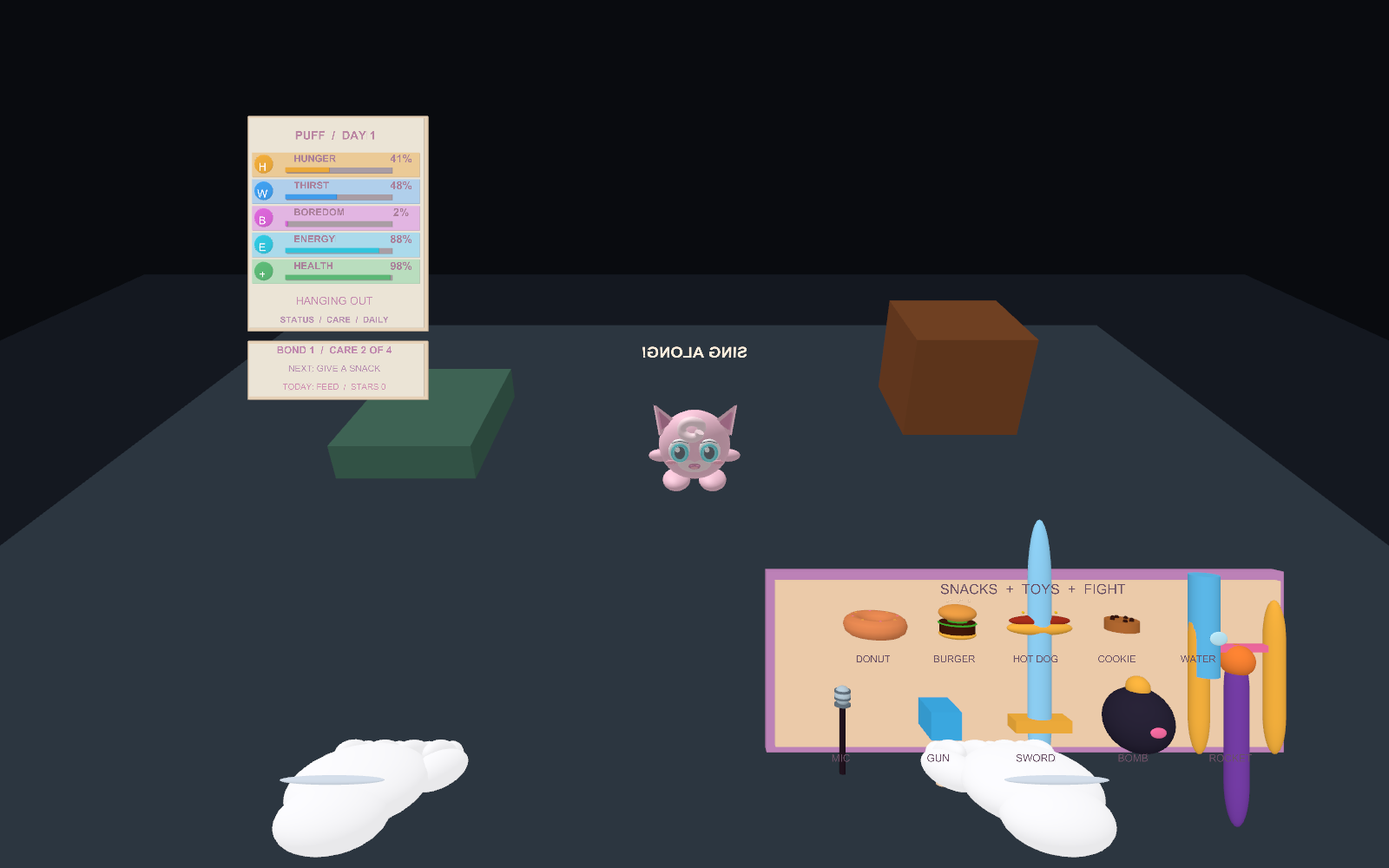
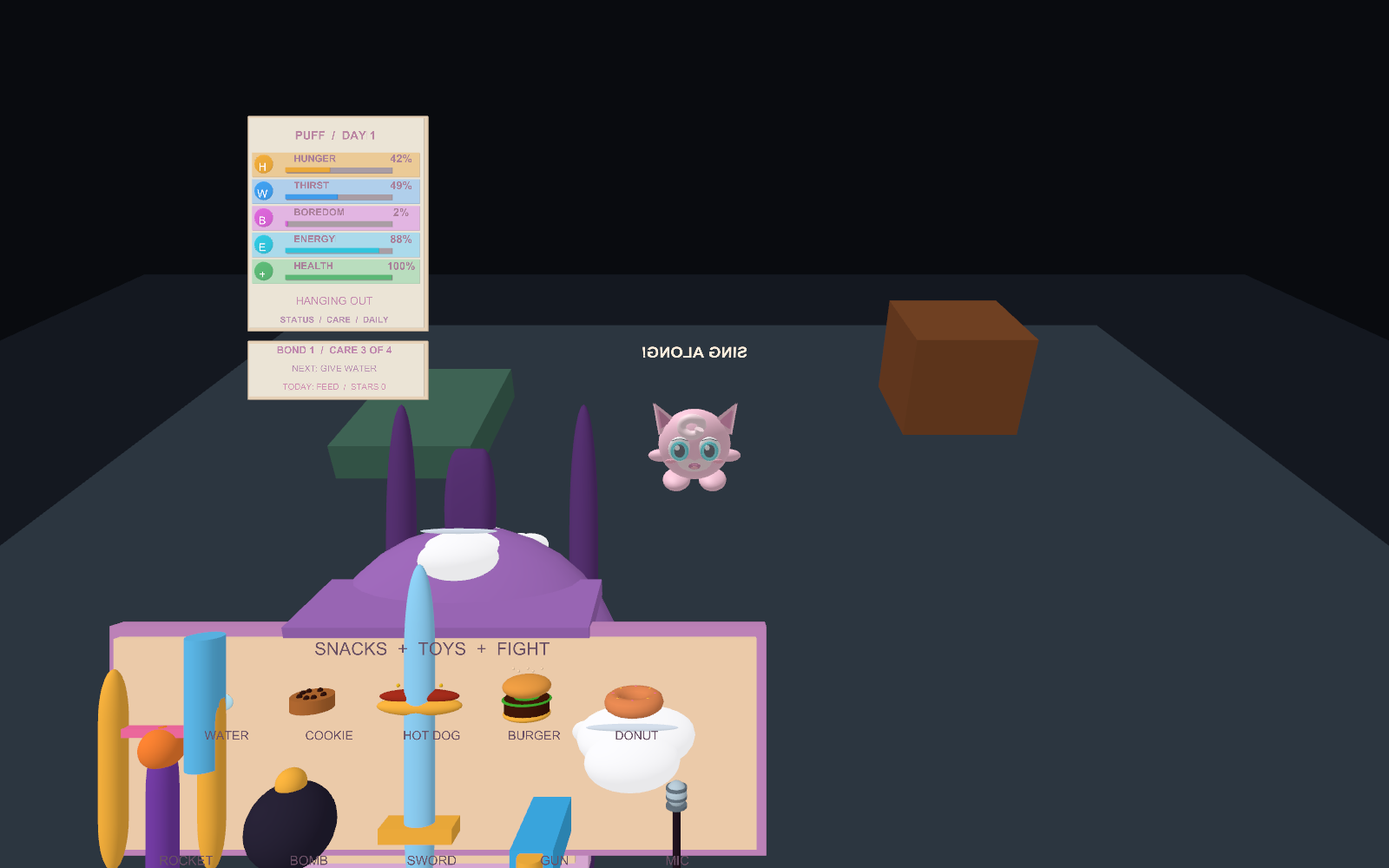
Make the backpack grabbable and placeable in mixed reality

Changed region(s): [[0.0625, 0.465, 0.9375, 1.0], [0.4688, 0.465, 0.5312, 0.527], [0.2188, 0.403, 0.25, 0.434]]

diff --git a/Assets/TabletopMayhem/Runtime/PetGame.cs b/Assets/TabletopMayhem/Runtime/PetGame.cs
@@ -32,7 +32,7 @@ namespace TabletopMayhem
         PetCareProgress care;
         PetRoster roster;
         RoomWorld room;
-        Transform rig,cameraOffset,rightHand,leftHand,anchor,petRoot,visualPivot,petModel,microphone,packTray,backpack,spawnMarker,spawnBeacon,bondFlower,contactShadow;
+        Transform rig,cameraOffset,rightHand,leftHand,anchor,petRoot,visualPivot,petModel,microphone,packTray,backpack,packFlap,spawnMarker,spawnBeacon,bondFlower,contactShadow;
         Camera view;
         PetMotion motion;
         PetHud hud;
@@ -45,6 +45,9 @@ namespace TabletopMayhem
         AudioSource songSource,squeakSource,moodSource,musicSource;
         AudioClip squeak,moodClip,musicClip,battleMusicClip,stepClip,purrClip;
         bool onQuest,placed,previousTrigger,previousGrip,previousLeftGrip,previousLeftTrigger,previousLeftY,previousReset,previousHelp,headTracked,focusPaused,packOpen;
+        bool packStowed=true,packReleasedThisFrame;
+        int packHeldBy; // 0 free, 1 left hand, 2 right hand
+        Vector3 packFollowVelocity;
         bool heldPet,petFlying,haveHandPositions,restingAtThrow;
         bool titleDismissed,titleWasPressed,awaitStartRelease;
         float titleTime;
@@ -160,7 +163,7 @@ namespace TabletopMayhem
             for(int i=0;i<foods.Length;i++)
             {
                 var food=PetArt.Food(packTray,(FoodKind)i);foods[i]=food;
-                foodHomes[i]=new Vector3((i-2)*.096f,.055f,-.025f);
+                foodHomes[i]=new Vector3((i-2)*.096f,.055f,.035f);
                 food.localPosition=foodHomes[i];
             }
             for(int i=0;i<props.Length;i++)
@@ -218,18 +221,36 @@ namespace TabletopMayhem
         {
             backpack=new GameObject("Backpack behind head").transform;backpack.SetParent(view.transform,false);
             backpack.localPosition=new Vector3(0,-.17f,-.30f);
-            PetArt.Shape(backpack,PrimitiveType.Cube,Vector3.zero,new Vector3(.23f,.24f,.10f),new Color(.79f,.48f,.76f),"Pastel backpack");
-            PetArt.Shape(backpack,PrimitiveType.Cube,new Vector3(0,.02f,-.056f),new Vector3(.18f,.11f,.016f),PetArt.Cream,"Pack flap");
-            packTray=new GameObject("Backpack inventory tray").transform;packTray.SetParent(view.transform,false);
-            packTray.localPosition=new Vector3(.29f,-.20f,.65f);
+            var lavender=new Color(.63f,.42f,.74f);var rim=new Color(.91f,.71f,.89f);var deep=new Color(.35f,.20f,.46f);
+            PetArt.Shape(backpack,PrimitiveType.Sphere,Vector3.zero,new Vector3(.25f,.26f,.12f),lavender,"Rounded fabric pack");
+            PetArt.Shape(backpack,PrimitiveType.Cube,new Vector3(0,-.018f,-.060f),new Vector3(.205f,.175f,.014f),rim,"Front pocket panel");
+            PetArt.Shape(backpack,PrimitiveType.Cube,new Vector3(0,-.018f,-.070f),new Vector3(.188f,.158f,.003f),PetArt.Cream,"Pocket inset");
+            for(int s=-1;s<=1;s+=2)
+            {
+                PetArt.Shape(backpack,PrimitiveType.Capsule,new Vector3(s*.080f,.008f,.065f),new Vector3(.025f,.22f,.026f),deep,"Soft shoulder strap");
+                PetArt.Shape(backpack,PrimitiveType.Sphere,new Vector3(s*.099f,-.012f,-.071f),new Vector3(.009f,.009f,.004f),PetArt.Gold,"Stitched pocket rivet");
+            }
+            var handle=PetArt.Shape(backpack,PrimitiveType.Capsule,new Vector3(0,.143f,0),new Vector3(.095f,.020f,.024f),deep,"Backpack grab handle");
+            handle.transform.localRotation=Quaternion.Euler(0,0,90);
+            packFlap=new GameObject("Backpack hinged flap").transform;packFlap.SetParent(backpack,false);packFlap.localPosition=new Vector3(0,.066f,-.070f);
+            PetArt.Shape(packFlap,PrimitiveType.Cube,new Vector3(0,-.027f,0),new Vector3(.21f,.074f,.013f),lavender,"Rounded flap");
+            PetArt.Shape(packFlap,PrimitiveType.Sphere,new Vector3(0,-.060f,-.010f),new Vector3(.025f,.017f,.009f),PetArt.Gold,"Heart clasp");
+            packTray=new GameObject("Backpack inventory tray").transform;packTray.SetParent(backpack,false);
+            packTray.localPosition=new Vector3(0,-.010f,-.085f);
+            packTray.localRotation=Quaternion.Euler(0,180,0);
             packTray.localScale=Vector3.one*.72f;
-            PetArt.Shape(packTray,PrimitiveType.Cube,new Vector3(0,0,.022f),new Vector3(.63f,.22f,.018f),new Color(.80f,.55f,.78f),"Inventory backing");
-            PetArt.Shape(packTray,PrimitiveType.Cube,new Vector3(0,0,.009f),new Vector3(.61f,.20f,.008f),PetArt.Cream,"Inventory lining");
-            PetArt.Text(packTray,"SNACKS  +  TOYS  +  FIGHT",new Vector3(0,.093f,-.008f),.0026f,PetArt.Ink);
+            PetArt.Shape(packTray,PrimitiveType.Cube,new Vector3(0,0,-.022f),new Vector3(.63f,.22f,.018f),new Color(.80f,.55f,.78f),"Inventory backing");
+            PetArt.Shape(packTray,PrimitiveType.Cube,new Vector3(0,0,-.009f),new Vector3(.61f,.20f,.008f),PetArt.Cream,"Inventory lining");
+            PackLabel("SNACKS  +  TOYS  +  FIGHT",new Vector3(0,.093f,.003f),.0026f);
             string[] labels={"DONUT","BURGER","HOT DOG","COOKIE","WATER","MIC","GUN","SWORD","BOMB","ROCKET"};
-            for(int i=0;i<foods.Length;i++)PetArt.Text(packTray,labels[i],new Vector3((i-2)*.096f,.012f,-.015f),.0018f,PetArt.Ink);
-            for(int i=0;i<props.Length;i++)PetArt.Text(packTray,labels[i+5],new Vector3((i-2)*.115f,-.105f,-.015f),.0019f,PetArt.Ink);
+            for(int i=0;i<foods.Length;i++)PackLabel(labels[i],new Vector3((i-2)*.096f,.012f,.004f),.0018f);
+            for(int i=0;i<props.Length;i++)PackLabel(labels[i+5],new Vector3((i-2)*.115f,-.105f,.004f),.0019f);
             packTray.gameObject.SetActive(false);
+        }
+        void PackLabel(string label,Vector3 position,float size)
+        {
+            var text=PetArt.Text(packTray,label,position,size,PetArt.Ink);
+            text.transform.localRotation=Quaternion.Euler(0,180,0);
         }
         void Update()
         {
@@ -413,6 +434,7 @@ namespace TabletopMayhem
                 previousTrigger=trigger;previousHelp=helpButton;previousReset=reset;previousLeftGrip=leftGrip;previousLeftY=leftY;previousGrip=grip;previousLeftTrigger=leftTrigger;
                 return;
             }
+            UpdatePackPose(frameDt,grip,leftGrip);
             bool fightToggle=Button(left,CommonUsages.primaryButton);
             if(placed&&fightToggle&&!previousFightToggle)
             {
@@ -472,8 +494,8 @@ namespace TabletopMayhem
                 {previousTrigger=trigger;previousGrip=grip;previousLeftGrip=leftGrip;previousLeftTrigger=leftTrigger;previousLeftY=leftY;previousReset=reset;previousHelp=helpButton;return;}
                 if(grip&&!previousGrip)
                 {
-                    if(BehindHead(rightHand.position))TogglePack();
-                    else if(heldFood<0&&heldProp<0&&packOpen){TryPickFood(ray);if(heldFood<0)TryPickProp(ray);}
+                    if(!TryGrabPack(rightHand,2)&&heldFood<0&&heldProp<0&&packOpen)
+                    {TryPickFood(ray);if(heldFood<0)TryPickProp(ray);}
                 }
                 if(heldFood>=0)
                 {
@@ -499,14 +521,14 @@ namespace TabletopMayhem
                     if(touchDwell>.065f){touchDwell=0;PetPuff();}
                 }
                 else touchDwell=0;
-                if(leftGrip&&!previousLeftGrip)TryPickPet();
+                if(leftGrip&&!previousLeftGrip&&!TryGrabPack(leftHand,1))TryPickPet();
                 if(heldPet)
                 {
                     petRoot.position=leftHand.position+leftHand.forward*.10f;
                     if(!leftGrip)ThrowPet();
                 }
                 if(leftTrigger&&!previousLeftTrigger&&!heldPet&&punchCooldown<=0&&Vector3.Distance(leftHand.position,petRoot.position+Vector3.up*.10f)<.22f)PunchPet();
-                if(leftGrip&&!previousLeftGrip&&pet.Action==PetAction.Sleep)pet.Wake();
+                if(leftGrip&&!previousLeftGrip&&packHeldBy!=1&&pet.Action==PetAction.Sleep)pet.Wake();
             }
             previousTrigger=trigger;previousGrip=grip;previousLeftGrip=leftGrip;previousLeftTrigger=leftTrigger;previousLeftY=leftY;previousReset=reset;previousHelp=helpButton;
         }
@@ -517,17 +539,17 @@ namespace TabletopMayhem
         {
             Vector2 stick;if(!left.TryGetFeatureValue(CommonUsages.primary2DAxis,out stick))stick=Vector2.zero;
             bool guarding=trigger&&heldProp<0&&heldFood<0;
-            fight.Controls(stick,guarding,leftGrip);
+            fight.Controls(stick,guarding,leftGrip&&packHeldBy!=1);
             if(punch&&!previousFightPunch)fight.Punch();
             if(kick&&!previousFightKick)fight.Kick();
             if(leftTrigger&&!previousLeftTrigger){fight.Jump();Haptic(.18f,.06f);}
-            if(leftGrip&&!previousLeftGrip){if(fight.Grab())Haptic(.4f,.1f);}
-            if(!leftGrip&&previousLeftGrip){fight.Throw(leftVelocity.sqrMagnitude>.12f?leftVelocity:leftHand.forward*1.4f);Haptic(.28f,.08f);}
+            if(leftGrip&&!previousLeftGrip&&!TryGrabPack(leftHand,1)){if(fight.Grab())Haptic(.4f,.1f);}
+            if(!leftGrip&&previousLeftGrip&&!packReleasedThisFrame){fight.Throw(leftVelocity.sqrMagnitude>.12f?leftVelocity:leftHand.forward*1.4f);Haptic(.28f,.08f);}
             Ray ray=new Ray(rightHand.position,rightHand.forward*aimSign);
             if(grip&&!previousGrip)
             {
-                if(BehindHead(rightHand.position))TogglePack();
-                else if(heldProp<0&&heldFood<0&&packOpen){TryPickFood(ray);if(heldFood<0)TryPickProp(ray);}
+                if(!TryGrabPack(rightHand,2)&&heldProp<0&&heldFood<0&&packOpen)
+                {TryPickFood(ray);if(heldFood<0)TryPickProp(ray);}
             }
             if(heldFood>=0)
             {
@@ -663,9 +685,61 @@ namespace TabletopMayhem
         }
         bool BehindHead(Vector3 hand)
         {var p=view.transform.InverseTransformPoint(hand);return Mathf.Abs(p.x)<.37f&&p.y>-.55f&&p.y<.22f&&p.z<-.09f&&p.z>-.65f;}
+        bool TryGrabPack(Transform hand,int handId)
+        {
+            if(!placed||packHeldBy!=0||heldFood>=0||heldProp>=0||heldPet)return false;
+            bool fromBack=BehindHead(hand.position);
+            Vector3 handle=backpack.TransformPoint(new Vector3(0,.14f,-.015f));
+            bool atHandle=!packStowed&&Vector3.Distance(hand.position,handle)<.17f;
+            if(!fromBack&&!atHandle)return false;
+            backpack.SetParent(null,true);packStowed=false;packHeldBy=handId;packFollowVelocity=Vector3.zero;
+            if(fromBack)backpack.position=hand.position;
+            HapticHand(handId,.24f,.09f);Debug.Log("PET_PACK_GRABBED_"+(handId==1?"LEFT":"RIGHT"));
+            return true;
+        }
+        void UpdatePackPose(float dt,bool rightGrip,bool leftGrip)
+        {
+            packReleasedThisFrame=false;
+            if(packHeldBy==0)return;
+            bool held=packHeldBy==1?leftGrip:rightGrip;
+            if(!held){ReleasePack();return;}
+            Transform hand=packHeldBy==1?leftHand:rightHand;
+            Vector3 goal=hand.position+hand.forward*.055f-Vector3.up*.12f;
+            backpack.position=Vector3.SmoothDamp(backpack.position,goal,ref packFollowVelocity,.045f,4,dt);
+            backpack.rotation=Quaternion.Slerp(backpack.rotation,view.transform.rotation,1-Mathf.Exp(-dt*15));
+            Vector3 eye=view.transform.InverseTransformPoint(backpack.position);
+            bool inFront=eye.z>.24f&&eye.z<1.7f&&Mathf.Abs(eye.x)<eye.z*.95f;
+            if(inFront!=packOpen)
+            {
+                packOpen=inFront;packTray.gameObject.SetActive(packOpen);
+                Debug.Log(packOpen?"PET_PACK_OPEN":"PET_PACK_CLOSED");
+            }
+            packFlap.localRotation=Quaternion.Slerp(packFlap.localRotation,Quaternion.Euler(packOpen?-105:0,0,0),1-Mathf.Exp(-dt*12));
+        }
+        void ReleasePack()
+        {
+            packReleasedThisFrame=true;packHeldBy=0;packFollowVelocity=Vector3.zero;
+            Vector3 eye=view.transform.InverseTransformPoint(backpack.position);
+            if(eye.z<.20f){ClosePack();return;}
+            packOpen=true;packTray.gameObject.SetActive(true);packFlap.localRotation=Quaternion.Euler(-105,0,0);
+            Debug.Log("PET_PACK_PLACED");
+        }
         void TogglePack()
-        {if(heldFood>=0||heldProp>=0)return;packOpen=!packOpen;packTray.gameObject.SetActive(packOpen);Debug.Log(packOpen?"PET_PACK_OPEN":"PET_PACK_CLOSED");}
-        void ClosePack(){packOpen=false;packTray.gameObject.SetActive(false);}
+        {
+            if(heldFood>=0||heldProp>=0)return;
+            if(!packStowed){ClosePack();return;}
+            backpack.SetParent(null,true);backpack.position=view.transform.TransformPoint(new Vector3(0,-.12f,.55f));
+            backpack.rotation=view.transform.rotation;packStowed=false;packHeldBy=0;packOpen=true;
+            packTray.gameObject.SetActive(true);packFlap.localRotation=Quaternion.Euler(-105,0,0);
+            Debug.Log("PET_PACK_OPEN");
+        }
+        void ClosePack()
+        {
+            packHeldBy=0;packStowed=true;packOpen=false;packFollowVelocity=Vector3.zero;
+            backpack.SetParent(view.transform,false);backpack.localPosition=new Vector3(0,-.17f,-.30f);
+            backpack.localRotation=Quaternion.identity;packFlap.localRotation=Quaternion.identity;
+            packTray.gameObject.SetActive(false);Debug.Log("PET_PACK_STOWED");
+        }
         bool AimedAtPet(Ray ray)
         {
             Vector3 belly=petRoot.TransformPoint(new Vector3(0,.09f,.055f));
@@ -697,7 +771,7 @@ namespace TabletopMayhem
             }
             if(best<0){RaycastHit hit;if(Physics.Raycast(ray,out hit,1.2f,1<<FoodLayer,QueryTriggerInteraction.Ignore))
                 for(int i=0;i<foods.Length;i++)if(hit.transform==foods[i]){best=i;break;}}
-            if(best>=0){heldFood=best;foodFlying[best]=false;foods[best].SetParent(null,true);ClosePack();Debug.Log("PET_PACK_GRABBED_"+(FoodKind)best);}
+            if(best>=0){heldFood=best;foodFlying[best]=false;foods[best].SetParent(null,true);Haptic(.13f,.05f);Debug.Log("PET_PACK_GRABBED_"+(FoodKind)best);}
         }
         void FeedHeld()
         {
@@ -725,11 +799,11 @@ namespace TabletopMayhem
             {float d=Vector3.Distance(rightHand.position,props[i].position);if(d<distance){distance=d;best=i;}}
             if(best<0){RaycastHit hit;if(Physics.Raycast(ray,out hit,1.2f,1<<FoodLayer,QueryTriggerInteraction.Ignore))
                 for(int i=0;i<props.Length;i++)if(hit.transform==props[i]){best=i;break;}}
-            if(best>=0){heldProp=best;propFlying[best]=false;props[best].SetParent(null,true);ClosePack();Debug.Log("PET_PACK_GRABBED_PROP_"+best);}
+            if(best>=0){heldProp=best;propFlying[best]=false;props[best].SetParent(null,true);Haptic(.13f,.05f);Debug.Log("PET_PACK_GRABBED_PROP_"+best);}
         }
         void ResetProp(int i)
         {propFlying[i]=false;propFlightTime[i]=0;propVelocity[i]=Vector3.zero;propClosest[i]=100;props[i].SetParent(packTray,false);props[i].localPosition=PropHome(i);props[i].localRotation=Quaternion.identity;if(i==2)haveSwordTip=false;}
-        static Vector3 PropHome(int i){return new Vector3((i-2)*.115f,-.056f,-.025f);}
+        static Vector3 PropHome(int i){return new Vector3((i-2)*.115f,-.056f,.035f);}
         void ThrowProp()
         {
             if(heldProp<0)return;int i=heldProp;heldProp=-1;
@@ -928,6 +1002,8 @@ namespace TabletopMayhem
             {pokeCooldown=.7f;songSource.Stop();songSource.Play();Burst(PetArt.Pink,12);Haptic(.32f,.1f);RecordCare(CareAction.Sing,"SING ALONG!");Debug.Log("PET_SONG_STARTED");}
         }
         void Haptic(float strength,float seconds){if(onQuest)InputDevices.GetDeviceAtXRNode(XRNode.RightHand).SendHapticImpulse(0,strength,seconds);}
+        void HapticHand(int handId,float strength,float seconds)
+        {if(onQuest)InputDevices.GetDeviceAtXRNode(handId==1?XRNode.LeftHand:XRNode.RightHand).SendHapticImpulse(0,strength,seconds);}
         Vector3 MouthWorld(){return petRoot.TransformPoint(new Vector3(0,.105f,.082f));}
         void ReadDesktop()
         {

diff --git a/Assets/TabletopMayhem/Editor/PetVisualCheck.cs b/Assets/TabletopMayhem/Editor/PetVisualCheck.cs
@@ -93,6 +93,28 @@ namespace TabletopMayhem.Editor
                 Vector3 rightFinger=rightGlove.FingerTip.parent.forward;
                 Vector3 leftFinger=leftGlove.FingerTip.parent.forward;
                 if(Vector3.Dot(rightFinger,leftFinger)<.95f)throw new Exception("Right and left glove fingers do not point in the same direction");
+                game.SendMessage("TogglePack");
+                var pack=GameObject.Find("Backpack behind head").transform;
+                if(pack.parent!=camera.transform||tray.activeInHierarchy)throw new Exception("Backpack did not stow behind the viewer");
+                left.transform.position=camera.transform.TransformPoint(new Vector3(-.14f,-.16f,-.30f));
+                var grabPack=typeof(PetGame).GetMethod("TryGrabPack",flags);
+                var movePack=typeof(PetGame).GetMethod("UpdatePackPose",flags);
+                if(!(bool)grabPack.Invoke(game,new object[]{left.transform,1}))throw new Exception("Left reach behind shoulder did not grab backpack");
+                left.transform.position=camera.transform.TransformPoint(new Vector3(-.18f,-.10f,.55f));
+                for(int i=0;i<12;i++)movePack.Invoke(game,new object[]{.025f,false,true});
+                if(pack.parent||!tray.activeInHierarchy)throw new Exception("Pulling backpack forward did not open world inventory");
+                Vector3 placedPack=pack.position;
+                movePack.Invoke(game,new object[]{.025f,false,false});
+                if(Vector3.Distance(pack.position,placedPack)>.001f||!tray.activeInHierarchy)throw new Exception("Released backpack did not remain where placed");
+                left.transform.position=pack.TransformPoint(new Vector3(0,.14f,-.015f));
+                if(!(bool)grabPack.Invoke(game,new object[]{left.transform,1}))throw new Exception("Placed backpack could not be grabbed again by its handle");
+                movePack.Invoke(game,new object[]{.025f,false,false});
+                var foods=(Transform[])typeof(PetGame).GetField("foods",flags).GetValue(game);
+                right.transform.position=foods[0].position;
+                game.SendMessage("TryPickFood",new Ray(right.transform.position,camera.transform.forward));
+                if((int)typeof(PetGame).GetField("heldFood",flags).GetValue(game)!=0||!tray.activeInHierarchy)
+                    throw new Exception("Taking an item stowed the placed backpack");
+                game.SendMessage("ReturnFood");
                 camera.Render();texture.ReadPixels(new Rect(0,0,1600,1000),0,0);texture.Apply();
                 File.WriteAllBytes("Art/Blender/unity-glove-preview.png",texture.EncodeToPNG());
                 var pet=(PetSimulation)typeof(PetGame).GetField("pet",flags).GetValue(game);
@@ -167,7 +189,7 @@ namespace TabletopMayhem.Editor
                     throw new Exception("Daily care goal did not award exactly one star");
                 camera.targetTexture=null;RenderTexture.active=null;
                 UnityEngine.Object.DestroyImmediate(texture);UnityEngine.Object.DestroyImmediate(rt);
-                Debug.Log("PET_VISUAL_OK Puff title + care loop HUD + microphone task + stable spawn + pack + gloves + blaster + sword + floor + bean fight + jump + throw");EditorApplication.Exit(0);
+                Debug.Log("PET_VISUAL_OK Puff title + care loop HUD + microphone task + stable spawn + draggable pack + gloves + blaster + sword + floor + bean fight + jump + throw");EditorApplication.Exit(0);
             }
             catch(Exception e){Debug.LogException(e);EditorApplication.Exit(1);}
         }

diff --git a/Assets/TabletopMayhem/Runtime/PetHud.cs b/Assets/TabletopMayhem/Runtime/PetHud.cs
@@ -52,7 +52,7 @@ namespace TabletopMayhem
             PetArt.Shape(controls.transform,PrimitiveType.Cube,new Vector3(.305f,-.015f,.006f),new Vector3(.298f,.25f,.004f),new Color(.98f,.89f,.78f),"Controls card");
             PetArt.Shape(controls.transform,PrimitiveType.Cube,new Vector3(.305f,-.015f,0),new Vector3(.287f,.238f,.003f),new Color(1,.969f,.913f),"Controls face");
             var guide=PetArt.Text(controls.transform,
-                "CONTROLS\n\nCare: feed, water, sing, cuddle\nRight grip behind head: backpack\nRight grip: hold / throw item\nRight trigger near Puff: pet her\nMic to Puff: sing\nBlaster trigger: fire   Sword: swing\nLeft grip: pick up Puff\nA: help   B: home\nY tap: move Puff   Y hold: pets\nX: enter / exit Fight Mode\nFight: stick move, A punch, B kick\nLeft trigger: jump   Right trigger: shield\nLeft grip: grab; release to throw\nBomb: throw; rocket: hold / release",
+                "CONTROLS\n\nCare: feed, water, sing, cuddle\nGrip behind shoulder: grab backpack\nPull forward; release to place\nGrip pack handle to move it again\nRight grip: hold / throw item\nRight trigger near Puff: pet her\nMic to Puff: sing\nBlaster trigger: fire   Sword: swing\nLeft grip: pick up Puff\nA: help   B: home\nY tap: move Puff   Y hold: pets\nX: enter / exit Fight Mode\nFight: stick move, A punch, B kick\nLeft trigger: jump   Right trigger: shield\nLeft grip: grab; release to throw\nBomb: throw; rocket: hold / release",
                 new Vector3(.305f,-.022f,-.009f),.0022f,new Color(.40f,.21f,.32f));
             guide.anchor=TextAnchor.MiddleCenter;
             controls.SetActive(false);

diff --git a/Assets/TabletopMayhem/Editor/QuestProjectSetup.cs b/Assets/TabletopMayhem/Editor/QuestProjectSetup.cs
@@ -77,7 +77,7 @@ namespace TabletopMayhem.Editor
             PlayerSettings.companyName = "Tabletop Mayhem";
             PlayerSettings.productName = "Puff";
             PlayerSettings.SetApplicationIdentifier(NamedBuildTarget.Android, "com.tabletopmayhem.quest");
-            PlayerSettings.bundleVersion = "3.1.0"; PlayerSettings.Android.bundleVersionCode = 23;
+            PlayerSettings.bundleVersion = "3.2.0"; PlayerSettings.Android.bundleVersionCode = 24;
             PlayerSettings.SetScriptingBackend(NamedBuildTarget.Android, ScriptingImplementation.IL2CPP);
             PlayerSettings.Android.targetArchitectures = AndroidArchitecture.ARM64;
             PlayerSettings.Android.minSdkVersion = AndroidSdkVersions.AndroidApiLevel32;

diff --git a/README.md b/README.md
@@ -8,9 +8,9 @@ Build with **Puff → Configure Quest 3 → Build Quest APK**, or install `Build
 
 For first placement, aim at a scanned horizontal surface. A gold marker shows the target. Hold right trigger to see the faint landing ray, then release to place Puff. A also places her at a valid marker. After you have placed a slot once, a saved spatial anchor attempts to restore her home on the next launch; if relocalization fails, use the normal placement marker. Tap Y to choose a new surface, hold Y to return to the pet slots, or press B to reset Puff to her home.
 
-Reach behind your head and press right grip to open the backpack. Grab and throw food, water, or the microphone; the microphone starts her song. Hold the right glove fingertip briefly near Puff's head while pressing trigger to pet her. Left grip picks her up. Press A in pet mode for the optional controls card.
+Reach behind either shoulder and hold grip to grab the backpack. Pull it in front of you; its inventory opens as it comes into view. Release grip to leave it where you want, or grip its handle to move it again. Use right grip to take and throw food, water, or the microphone; the microphone starts her song. Hold the right glove fingertip briefly near Puff's head while pressing trigger to pet her. Left grip picks her up. Press A in pet mode for the optional controls card.
 
-Press **left X** after placement to enter or leave Fight Mode. The left stick moves Puff. **Right A punches**, **right B kicks**, **left trigger jumps**, and **right trigger shields**; the blue shield meter drains and refills between blocks. Press **left grip** close to the rival to grab it, then release grip to throw it. Punches chain into a three-hit combo, kicks launch the rival, and a throw over the tabletop edge scores a ring-out. Use right grip behind your head to open the same backpack: throw a bomb and it explodes after five seconds, or hold and release trigger with the rocket launcher to charge a slingshot shot. A trajectory arc previews the launch. The Bean Revenant telegraphs slime shots and fights back. Fight health is separate from Puff's pet life.
+Press **left X** after placement to enter or leave Fight Mode. The left stick moves Puff. **Right A punches**, **right B kicks**, **left trigger jumps**, and **right trigger shields**; the blue shield meter drains and refills between blocks. Press **left grip** close to the rival to grab it, then release grip to throw it. Punches chain into a three-hit combo, kicks launch the rival, and a throw over the tabletop edge scores a ring-out. Pull the same backpack forward from behind either shoulder: throw a bomb and it explodes after five seconds, or hold and release trigger with the rocket launcher to charge a slingshot shot. A trajectory arc previews the launch. The Bean Revenant telegraphs slime shots and fights back. Fight health is separate from Puff's pet life.
 
 The small HUD tracks hunger, thirst, boredom, energy, health, daily care, and age. The care loop asks for food, water, song, and a cuddle; each completed round raises bond. Each UTC day has one rotating care goal, and finishing it awards a star and a small health and mood boost. Pet needs progress in real time, including while the app is closed. Neglect can end a life in a few days; consistent care can extend it well past fourteen days. Each of the five slots saves independently.
 

diff --git a/Documentation/DEVICE_TESTING.md b/Documentation/DEVICE_TESTING.md
@@ -2,7 +2,7 @@
 
 1. Install `Builds/PuffQuest.apk` over the existing app. Launch **Puff**. Confirm the new large PUFF title appears, then press any button. Select a pet slot with the left stick and A.
 2. Allow Spatial Data and scan a desk or floor in Quest Space Setup. If the slot has no saved home, aim the right controller at a flat surface. Hold trigger for the faint ray, then release. Confirm Puff appears and remains visible. Close and relaunch the app; if the spatial anchor relocalizes, Puff should return to the same spot. If the room changed or relocalization fails, the placement marker should appear again.
-3. Open the backpack with right grip behind your head. Throw Puff food, water, and the microphone. Bring the right glove fingertip close to her head while pressing trigger to pet her. Confirm care, health, sound, and animation respond. Complete today's care goal and check that the star count increases once.
+3. Reach behind either shoulder and hold grip to grab the backpack. Pull it into view; the inventory should open. Release it and verify it stays where placed. Grip its handle to reposition it. Take food, water, and the microphone with right grip while the backpack stays open; throw them to Puff. Bring the right glove fingertip close to her head while pressing trigger to pet her. Confirm care, health, sound, and animation respond. Complete today's care goal and check that the star count increases once.
 4. Press left X. Confirm the humanoid bean rival rises from a gate on the scanned surface. Move Puff with the left stick, punch with A, kick with B, jump with left trigger, and hold right trigger to shield. Verify that repeated punches chain, the kick launches the bean, and the slime shot has a visible windup before firing. Press left grip near the bean to grab it, then release to throw it; try a ring-out at a tabletop edge. Confirm separate fight health bars update.
 5. In Fight Mode, throw a bomb from the backpack; it should explode after five seconds. Pick up the launcher, hold trigger to see its predicted arc, and release to fire a rocket. Check the explosion affects nearby combatants. Left X should return to the calm pet game with the pet's care progress intact.
 6. Test reset B, tap Y to relocate, hold Y for the roster, and reopen multiple save slots. The real-time age and needs should remain separate by slot.
